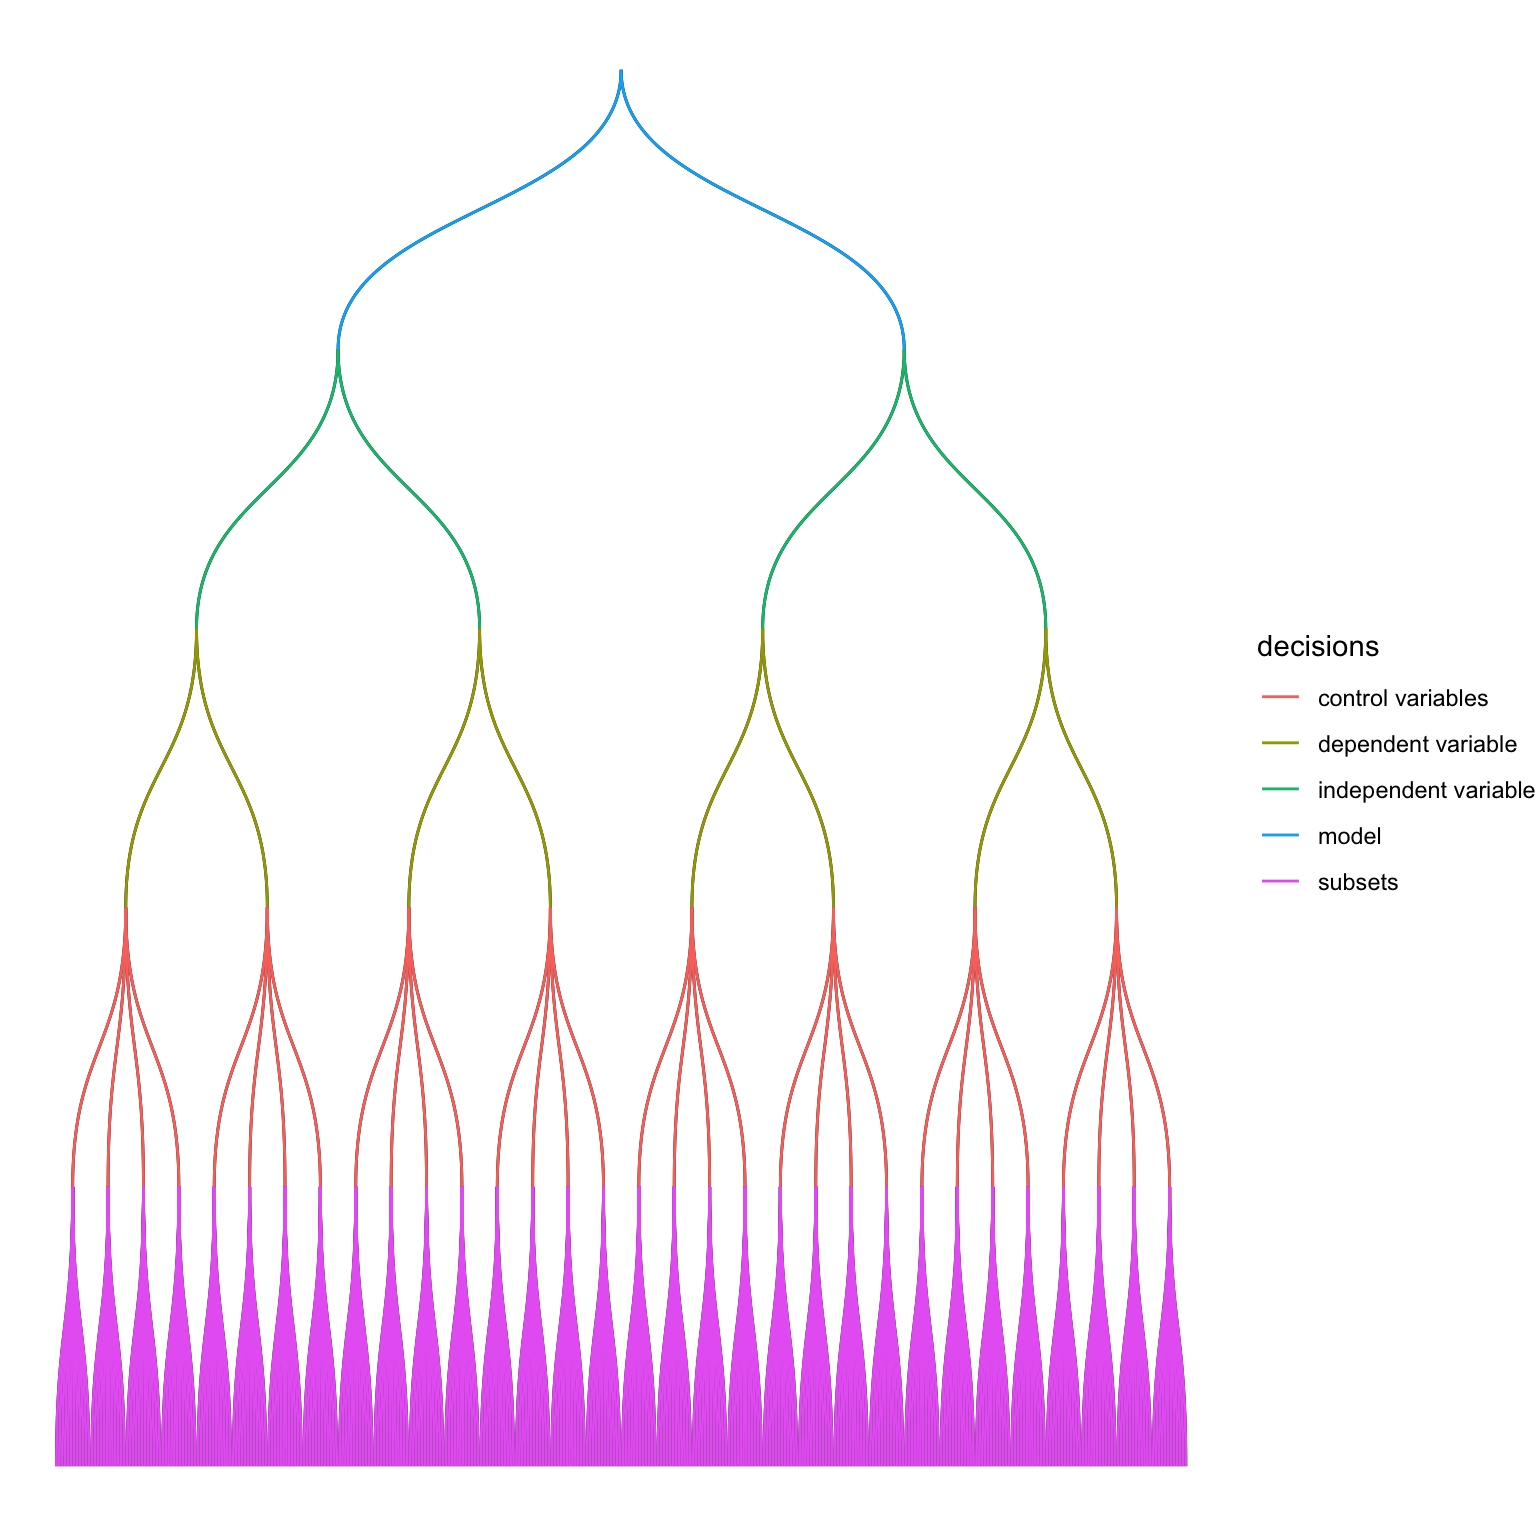
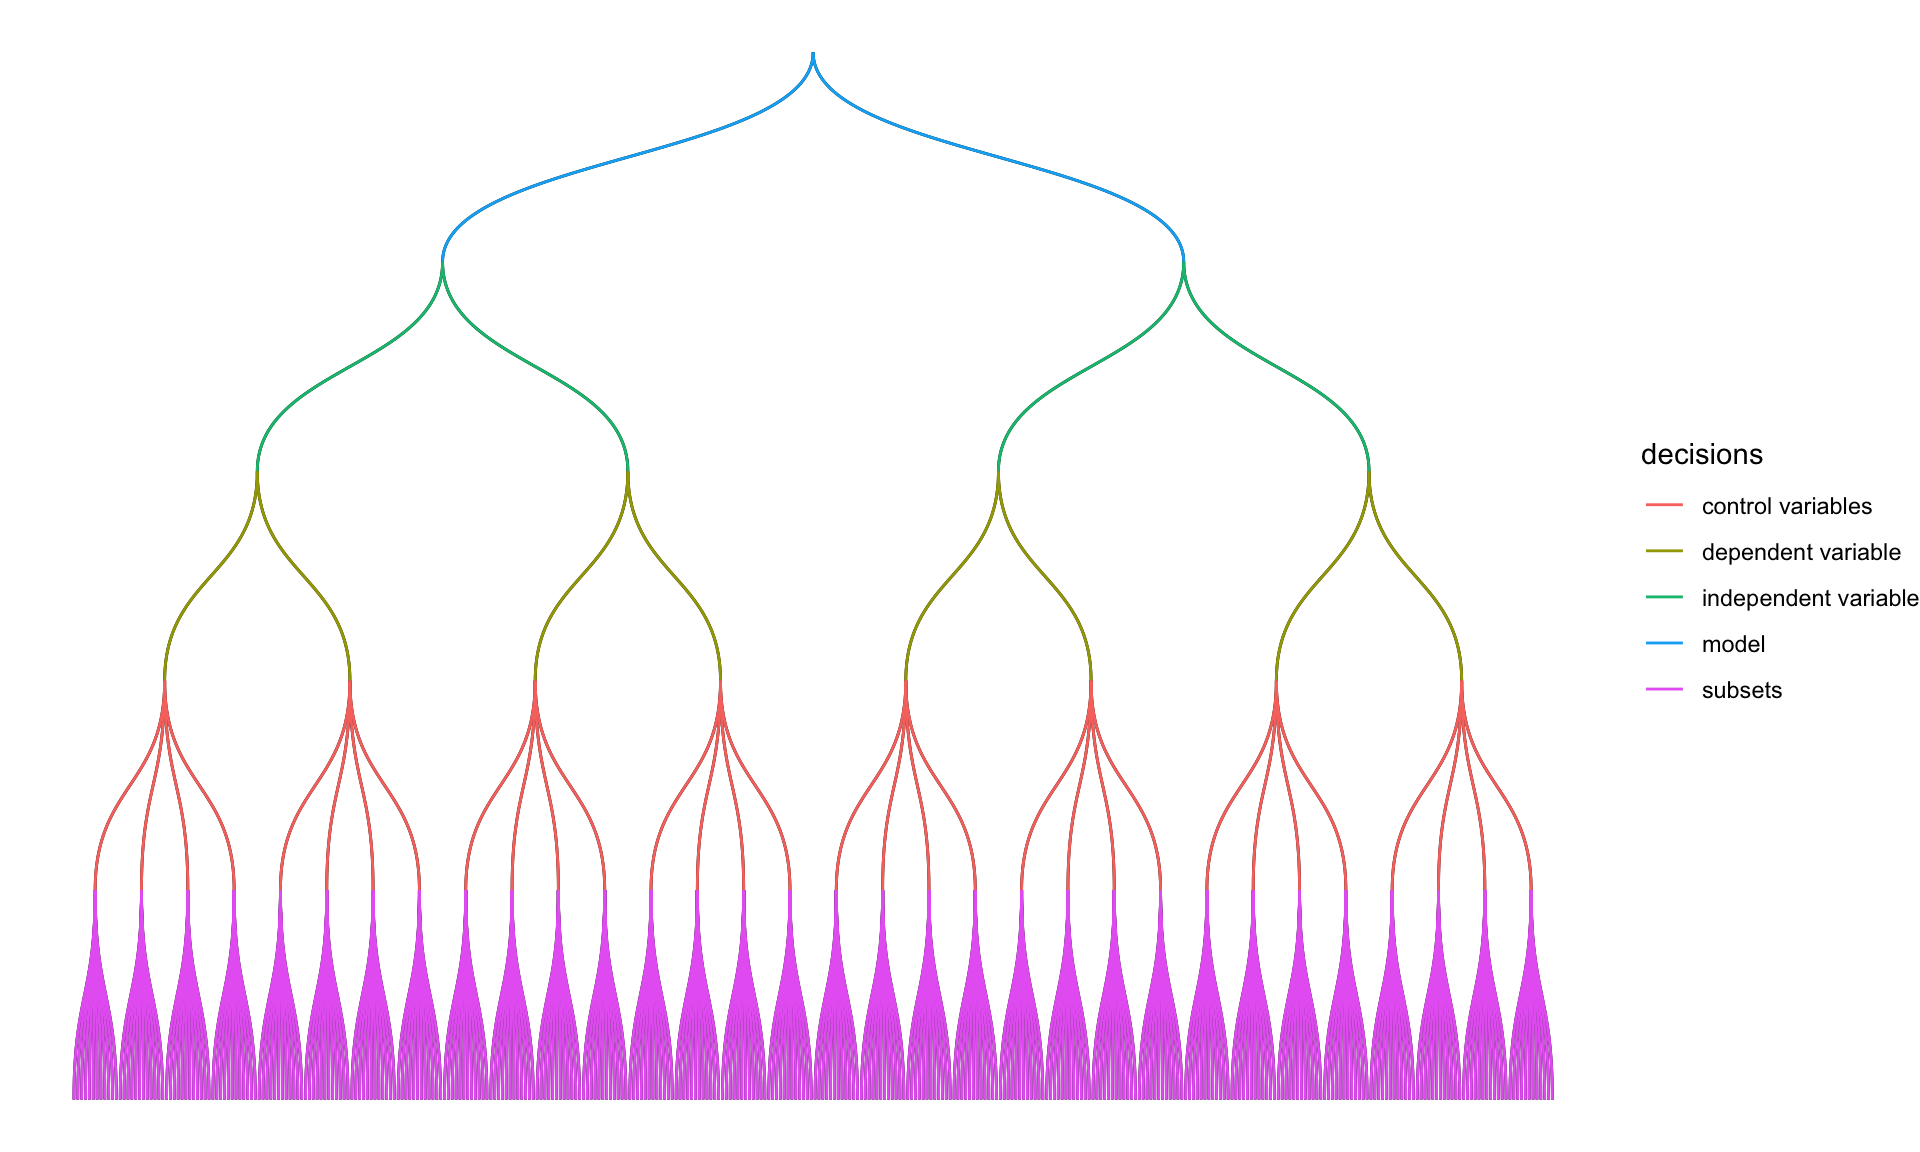
Update website.

diff --git a/docs/reference/plot_decisiontree.html b/docs/reference/plot_decisiontree.html
@@ -158,13 +158,22 @@
                     <span class='kw'>controls</span> <span class='kw'>=</span> <span class='fu'><a href='https://rdrr.io/r/base/c.html'>c</a></span>(<span class='st'>"c1"</span>, <span class='st'>"c2"</span>))
 
 <span class='co'># Basic, non-labelled decisions tree</span>
-<span class='fu'>plot_decisions</span>(<span class='no'>results</span>)</div><div class='output co'>#&gt; <span class='error'>Error in plot_decisions(results): could not find function "plot_decisions"</span></div><div class='input'>
+<span class='fu'>plot_decisiontree</span>(<span class='no'>results</span>)</div><div class='output co'>#&gt; <span class='message'></span>
+#&gt; <span class='message'>Attaching package: ‘igraph’</span></div><div class='output co'>#&gt; <span class='message'>The following objects are masked from ‘package:purrr’:</span>
+#&gt; <span class='message'></span>
+#&gt; <span class='message'>    compose, simplify</span></div><div class='output co'>#&gt; <span class='message'>The following objects are masked from ‘package:dplyr’:</span>
+#&gt; <span class='message'></span>
+#&gt; <span class='message'>    as_data_frame, groups, union</span></div><div class='output co'>#&gt; <span class='message'>The following objects are masked from ‘package:stats’:</span>
+#&gt; <span class='message'></span>
+#&gt; <span class='message'>    decompose, spectrum</span></div><div class='output co'>#&gt; <span class='message'>The following object is masked from ‘package:base’:</span>
+#&gt; <span class='message'></span>
+#&gt; <span class='message'>    union</span></div><div class='img'><img src='plot_decisiontree-1.png' alt='' width='700' height='433' /></div><div class='input'>
 <span class='co'># Labelled decisions tree</span>
-<span class='fu'>plot_decisions</span>(<span class='no'>results</span>, <span class='kw'>label</span> <span class='kw'>=</span> <span class='fl'>TRUE</span>)</div><div class='output co'>#&gt; <span class='error'>Error in plot_decisions(results, label = TRUE): could not find function "plot_decisions"</span></div><div class='input'>
+<span class='fu'>plot_decisiontree</span>(<span class='no'>results</span>, <span class='kw'>label</span> <span class='kw'>=</span> <span class='fl'>TRUE</span>)</div><div class='img'><img src='plot_decisiontree-2.png' alt='' width='700' height='433' /></div><div class='input'>
 <span class='co'># Identify choices</span>
-<span class='fu'>plot_decisions</span>(<span class='no'>results</span>, <span class='kw'>legend</span> <span class='kw'>=</span> <span class='fl'>TRUE</span>)</div><div class='output co'>#&gt; <span class='error'>Error in plot_decisions(results, legend = TRUE): could not find function "plot_decisions"</span></div><div class='input'>
+<span class='fu'>plot_decisiontree</span>(<span class='no'>results</span>, <span class='kw'>legend</span> <span class='kw'>=</span> <span class='fl'>TRUE</span>)</div><div class='img'><img src='plot_decisiontree-3.png' alt='' width='700' height='433' /></div><div class='input'>
 <span class='co'># All combined</span>
-<span class='fu'>plot_decisions</span>(<span class='no'>results</span>, <span class='kw'>label</span> <span class='kw'>=</span> <span class='fl'>TRUE</span>, <span class='kw'>legend</span> <span class='kw'>=</span> <span class='fl'>TRUE</span>)</div><div class='output co'>#&gt; <span class='error'>Error in plot_decisions(results, label = TRUE, legend = TRUE): could not find function "plot_decisions"</span></div></pre>
+<span class='fu'>plot_decisiontree</span>(<span class='no'>results</span>, <span class='kw'>label</span> <span class='kw'>=</span> <span class='fl'>TRUE</span>, <span class='kw'>legend</span> <span class='kw'>=</span> <span class='fl'>TRUE</span>)</div><div class='img'><img src='plot_decisiontree-4.png' alt='' width='700' height='433' /></div></pre>
   </div>
   <div class="col-md-3 hidden-xs hidden-sm" id="sidebar">
     <h2>Contents</h2>

diff --git a/docs/index.html b/docs/index.html
@@ -94,7 +94,7 @@
 <h2 class="hasAnchor">
 <a href="#overview" class="anchor"></a>Overview</h2>
 <p>The goal of specr is to facilitate specification curve analyses as described by Simonson, Simmons &amp; Nelson (2019). It can be used to investigate how different (e.g., theoretical defensible) analytical choices affect outcome statistics within the universe of one single data set.</p>
-<p>It provides functions to setup, run, evaluate, and plot the multiverse of specifications. A simple usage example is provided below. For more information about the various functions and specific use cases, visit the documentation at <a href="https://masurp.github.io/specr/index.html" class="uri">https://masurp.github.io/specr/index.html</a>.</p>
+<p>It provides functions to setup, run, evaluate, and plot the multiverse of specifications. A simple usage example is provided below. For more information about the various functions and specific use cases, visit the <a href="https://masurp.github.io/specr/index.html">documentation</a>.</p>
 <p>For a more comprehensive examples and vignettes on how to use the various functions of the package, check out the following pages:</p>
 <ul>
 <li>
@@ -166,7 +166,7 @@
 <span id="cb3-9"><a href="#cb3-9"></a><span class="co">#&gt; A BibTeX entry for LaTeX users is</span></span>
 <span id="cb3-10"><a href="#cb3-10"></a><span class="co">#&gt; </span></span>
 <span id="cb3-11"><a href="#cb3-11"></a><span class="co">#&gt;   @Misc{,</span></span>
-<span id="cb3-12"><a href="#cb3-12"></a><span class="co">#&gt;     title = {specr: Statistical functions for conducting specification curve analyses (Version 0.1.0)},</span></span>
+<span id="cb3-12"><a href="#cb3-12"></a><span class="co">#&gt;     title = {specr: Statistical functions for conducting specification curve analyses (Version 0.1.1)},</span></span>
 <span id="cb3-13"><a href="#cb3-13"></a><span class="co">#&gt;     author = {Philipp K. Masur and Michael Scharkow},</span></span>
 <span id="cb3-14"><a href="#cb3-14"></a><span class="co">#&gt;     year = {2019},</span></span>
 <span id="cb3-15"><a href="#cb3-15"></a><span class="co">#&gt;     url = {https://github.com/masurp/specr},</span></span>
